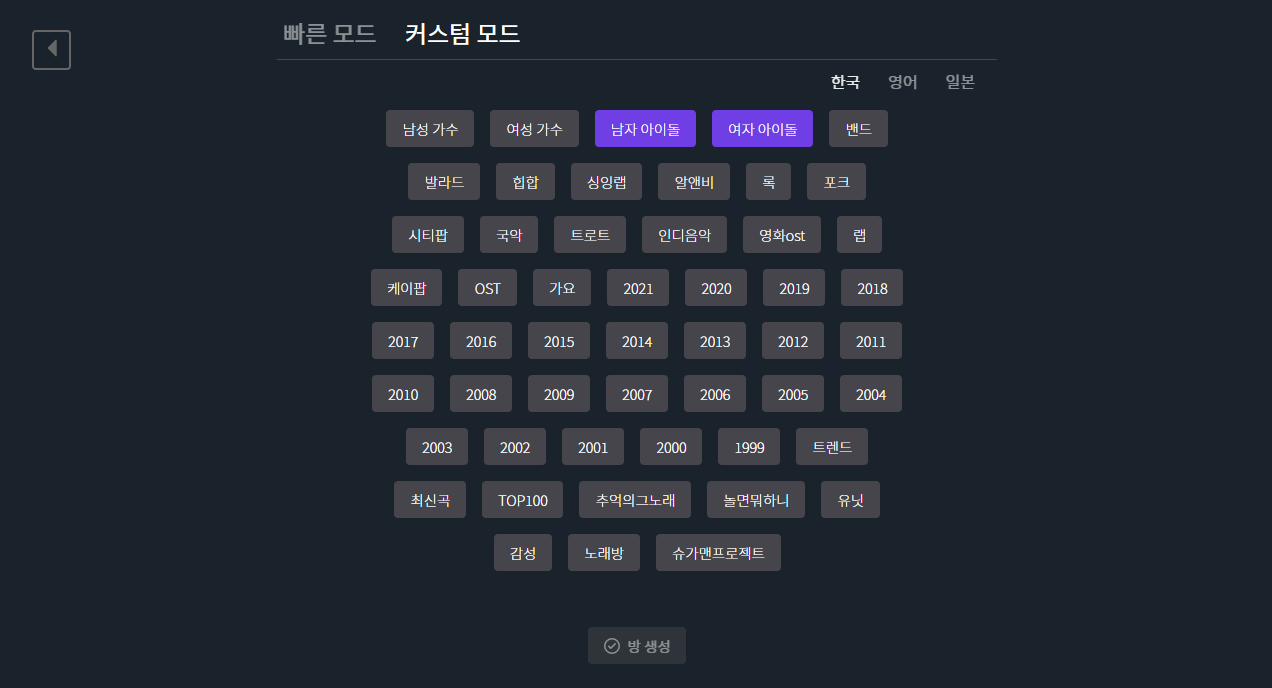
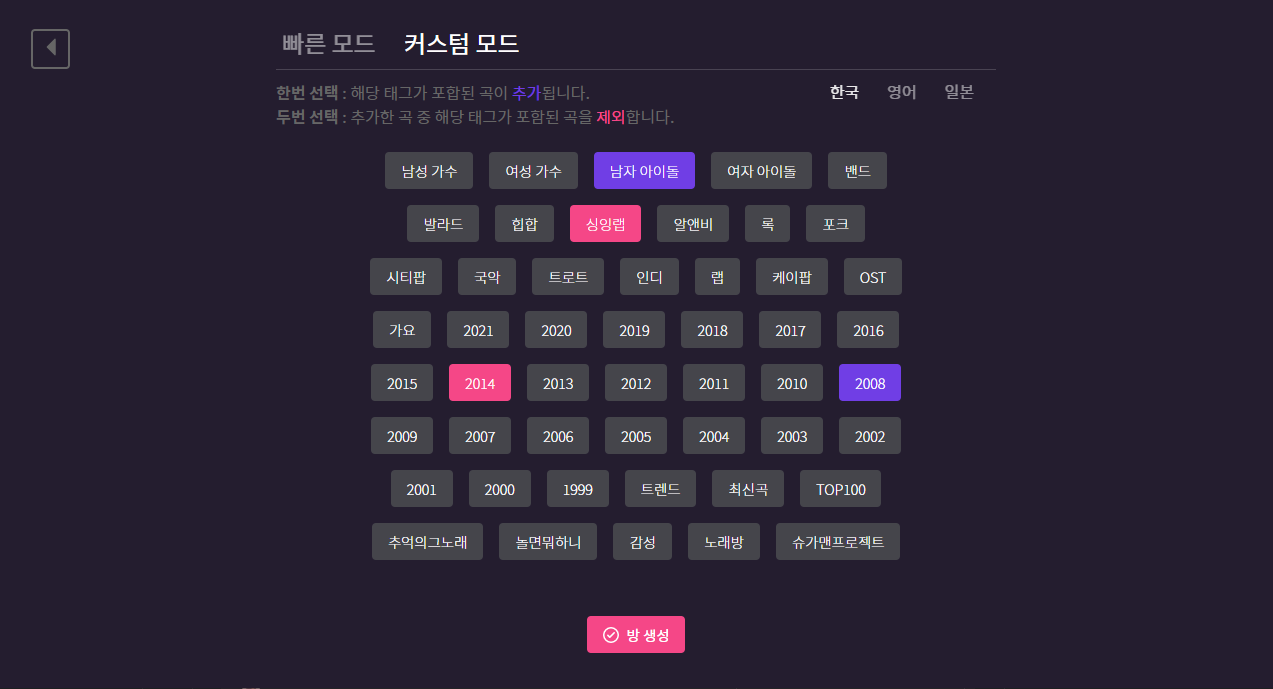
ADD : Select song tags to exclude

diff --git a/src/pages/CreateRoom.tsx b/src/pages/CreateRoom.tsx
@@ -32,14 +32,14 @@ const CreateRoom = ({ socket } : CreateRoomProps) => {
         ],
         genre: [
             '발라드','힙합','싱잉랩','알앤비','록',
-            '포크','시티팝','국악','트로트','인디음악','영화ost','랩','케이팝','OST','가요'
+            '포크','시티팝','국악','트로트','인디','랩','케이팝','OST','가요'
         ],
         year: [
             '2021','2020','2019','2018','2017','2016','2015','2014','2013','2012','2011','2010','2008','2009','2007',
             '2006','2005','2004','2003','2002','2001','2000','1999',
         ],
         fast: [
-            '트렌드','최신곡','TOP100','추억의그노래','놀면뭐하니','유닛','감성','노래방','슈가맨프로젝트'
+            '트렌드','최신곡','TOP100','추억의그노래','놀면뭐하니','감성','노래방','슈가맨프로젝트'
         ]
     };
 
@@ -73,6 +73,9 @@ const CreateRoom = ({ socket } : CreateRoomProps) => {
     
     // 선택한 태그들 저장
     const [selectTags, setSelectTags] = React.useState<string[]>([ ]);
+    // 선택한 태그들 저장
+    const [unselectTags, setUnSelectTags] = React.useState<string[]>([ ]);
+
     // 언어권 지정
     const [language,  setLanguage] = React.useState<string>('kr');
     // 태그 타입 지정 - all, singer, genre, language, year, fast
@@ -96,12 +99,23 @@ const CreateRoom = ({ socket } : CreateRoomProps) => {
     //- tag - 선택한 태그 명
     //- 만약 선택한 태그라면 선택해제 | 미선택 태그라면 선택
     function selectTag(tag: string) {
-        if (!selectTags.includes(tag)) {
-            setSelectTags([...selectTags, tag]);
+        console.log('QQQQ');
+
+        // 이미 두번 눌러 제외였던 태그였다면 아무 상태 아님으로 변경
+        if (unselectTags.includes(tag)) {
+            setUnSelectTags(unselectTags.filter(item => item !== tag));
             return;
         }
 
-        setSelectTags(selectTags.filter(item => item !== tag));
+        // 이미 한번 누른 상태라면 두번 누른 상태인 제외 태그로 변경
+        if (selectTags.includes(tag)) {
+            setSelectTags(selectTags.filter(item => item !== tag));
+            setUnSelectTags([...unselectTags, tag]);
+            return;
+        }
+
+        // 한번도 누르지 않은 상태라면 해당 태그 추가함
+        setSelectTags([...selectTags, tag]);
     }
 
     // <태그 데이터들을 모두 묶어서 불러올때 사용>
@@ -116,6 +130,7 @@ const CreateRoom = ({ socket } : CreateRoomProps) => {
     function createRoom() {
         socket.emit('create room', {
             tags: selectTags,
+            unTags: unselectTags,
             language: language,
             maxSongNum: maxSongNum,
             maxUserNum: maxUserNum,
@@ -219,43 +234,47 @@ const CreateRoom = ({ socket } : CreateRoomProps) => {
 
                 {
                     isCustomMode && 
-                    <div className="tags-menu">
-                        <button 
-                            className={"btn-mode btn-sm " + (language !== 'kr' && " un-selected ")}
-                            onClick={()=>changeLanguage('kr')}
-                        >
-                            한국
-                        </button>
-                        <button 
-                            className={"btn-mode btn-sm " + (language !== 'en' && " un-selected ")}
-                            onClick={()=>changeLanguage('en')}
-                        >
-                            영어
-                        </button>
-                        <button 
-                            className={"btn-mode btn-sm " + (language !== 'jp' && " un-selected ")}
-                            onClick={()=>changeLanguage('jp')}
-                        >
-                            일본
-                        </button>
-                    </div>
-                }
-                
-                {
-                    isCustomMode && 
-                    <div className="tags-list">
-                        {
-                            getTags(getLanguageTags(language), tagType).map((tag: string) => 
-                                <TagButton 
-                                    clicked={() => selectTag(tag)}
-                                    isSelected={selectTags.includes(tag)}
-                                    key={tag}
-                                >
-                                    { tag }
-                                </TagButton>
-                            )
-                        }
-                    </div>
+                    <>
+                        <div className="tags-menu">
+                            <button 
+                                className={"btn-mode btn-sm " + (language !== 'kr' && " un-selected ")}
+                                onClick={()=>changeLanguage('kr')}
+                            >
+                                한국
+                            </button>
+                            <button 
+                                className={"btn-mode btn-sm " + (language !== 'en' && " un-selected ")}
+                                onClick={()=>changeLanguage('en')}
+                            >
+                                영어
+                            </button>
+                            <button 
+                                className={"btn-mode btn-sm " + (language !== 'jp' && " un-selected ")}
+                                onClick={()=>changeLanguage('jp')}
+                            >
+                                일본
+                            </button>
+                        </div>
+                        
+                        <p className="tag-help-desc"><strong>한번 선택</strong> : 해당 태그가 포합된 곡이 <span className="help-primary">추가</span>됩니다.</p>
+                        <p className="tag-help-desc desc-2"><strong>두번 선택</strong> : 추가한 곡 중 해당 태그가 포함된 곡을 <span className="help-point">제외</span>합니다.</p>
+
+
+                        <div className="tags-list">
+                            {
+                                getTags(getLanguageTags(language), tagType).map((tag: string) => 
+                                    <TagButton 
+                                        clicked={() => selectTag(tag)}
+                                        isSelected={selectTags.includes(tag)}
+                                        isUnSelected={unselectTags.includes(tag)}
+                                        key={tag}
+                                    >
+                                        { tag }
+                                    </TagButton>
+                                )
+                            }
+                        </div>
+                    </>
                 }
             </div>
             

diff --git a/src/components/Button/Button.tsx b/src/components/Button/Button.tsx
@@ -6,16 +6,18 @@ import { useHistory } from 'react-router-dom';
 type ButtonProps = {
     children? : React.ReactNode,
     className? : string,
-    clicked? : () => void,
+    clicked? : (e: any) => void,
     disabled? : boolean
+    onContextMenu? : any
 }
 
-export const Button = ({ children, className = '', clicked, disabled = false } : ButtonProps) => {
+export const Button = ({ children, className = '', clicked, onContextMenu, disabled = false } : ButtonProps) => {
     return (
         <button 
             className={`btn ${className} ${disabled ? 'disabled' : ''}`}
             onClick={ clicked }
             disabled={ disabled }
+            onContextMenu={ onContextMenu }
         >
             { children }
         </button>
@@ -80,15 +82,16 @@ export const BeforeButton = () => {
 }
 
 type TagButtonProps = {
-    children? : React.ReactNode,
-    clicked? : () => void,
+    children? : React.ReactNode
+    clicked : () => void
     isSelected : boolean
+    isUnSelected : boolean
 }
 
-export const TagButton = ({ children, clicked, isSelected } : TagButtonProps) => {
+export const TagButton = ({ children, clicked, isSelected, isUnSelected } : TagButtonProps) => {
     return (
         <Button
-            className={"btn-tag " + (isSelected && "tag-selected")}
+            className={"btn-tag" + (isSelected ? " tag-selected " : "") + (isUnSelected ? " tag-unselected " : "")}
             clicked={ clicked }
         >
             { children }   

diff --git a/src/App.tsx b/src/App.tsx
@@ -11,7 +11,7 @@ import CreateRoom from './pages/CreateRoom';
 import Room from './pages/Room';
 import CheckRoom from './pages/CheckRoom';
 
-const CLIENT_VERSION = 'v1.0.0';
+const CLIENT_VERSION = 'v1.0.1';
 const server_host = process.env.REACT_APP_SERVER_HOST || "localhost:4000";
 const socket = io(server_host);
 
@@ -44,7 +44,7 @@ const App = () => {
 
   return (
     <div className="App">
-      
+
       {/* 
         [아무 소리 들리자 않는 비디오]
         모든 노래는 유투브 동영상으로 가져오기 때문에 키보드 fn 키 중 소리 조절 및 영상 일시 중지 등의 키가 모두 동작함

diff --git a/src/pages/CreateRoom.scss b/src/pages/CreateRoom.scss
@@ -52,6 +52,24 @@
     margin-bottom: .5rem;
 }
 
+.tag-help-desc {
+    margin-top: -2rem;
+    margin-bottom: 0px;
+    color: $secondary;
+    &.desc-2 {
+        margin-top: 0px;
+        margin-bottom: 1rem;
+    }
+    .help-primary {
+        color: $primary;
+        opacity: 1;
+    }
+    .help-point {
+        color: $point;
+        opacity: 1;
+    }
+}
+
 .tags-list {
     margin: 0 auto;
     display: flex;

diff --git a/src/components/Button/Button.scss b/src/components/Button/Button.scss
@@ -61,6 +61,12 @@
                 background-color: darken($primary, 5%);
             }
         }
+        &.tag-unselected {
+            background-color: $point;
+            &:not(:disabled):not(.disabled):hover {  
+                background-color: lighten($point, 5%);
+            }
+        }
     }
     &.btn-img {
         padding: 0px;
